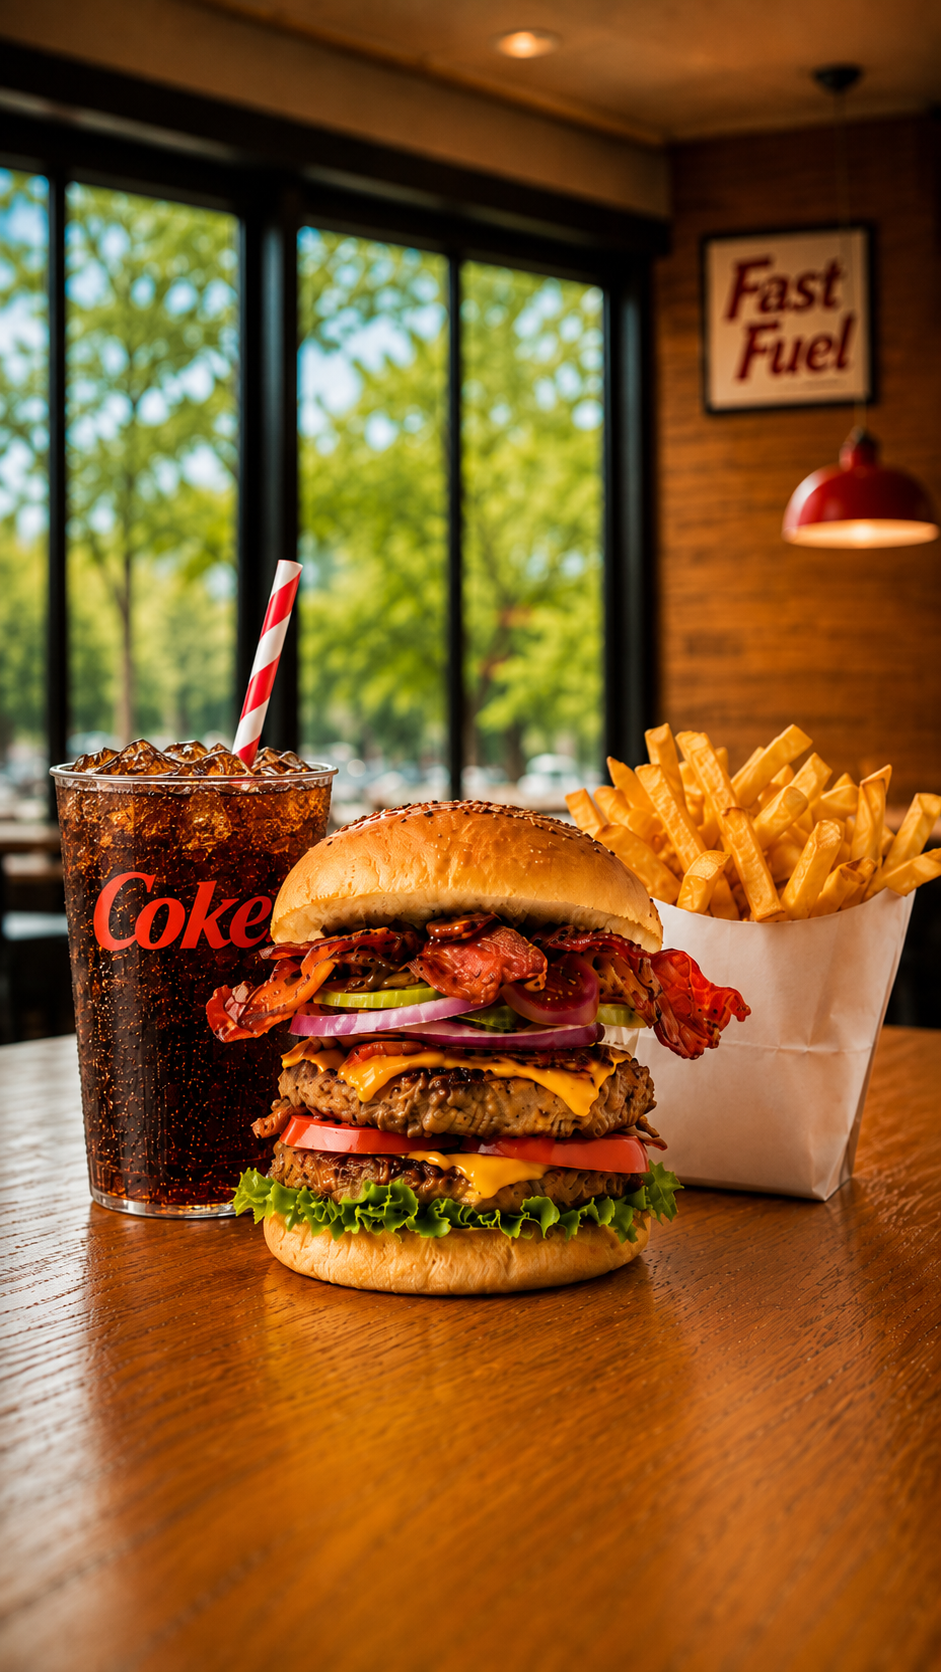
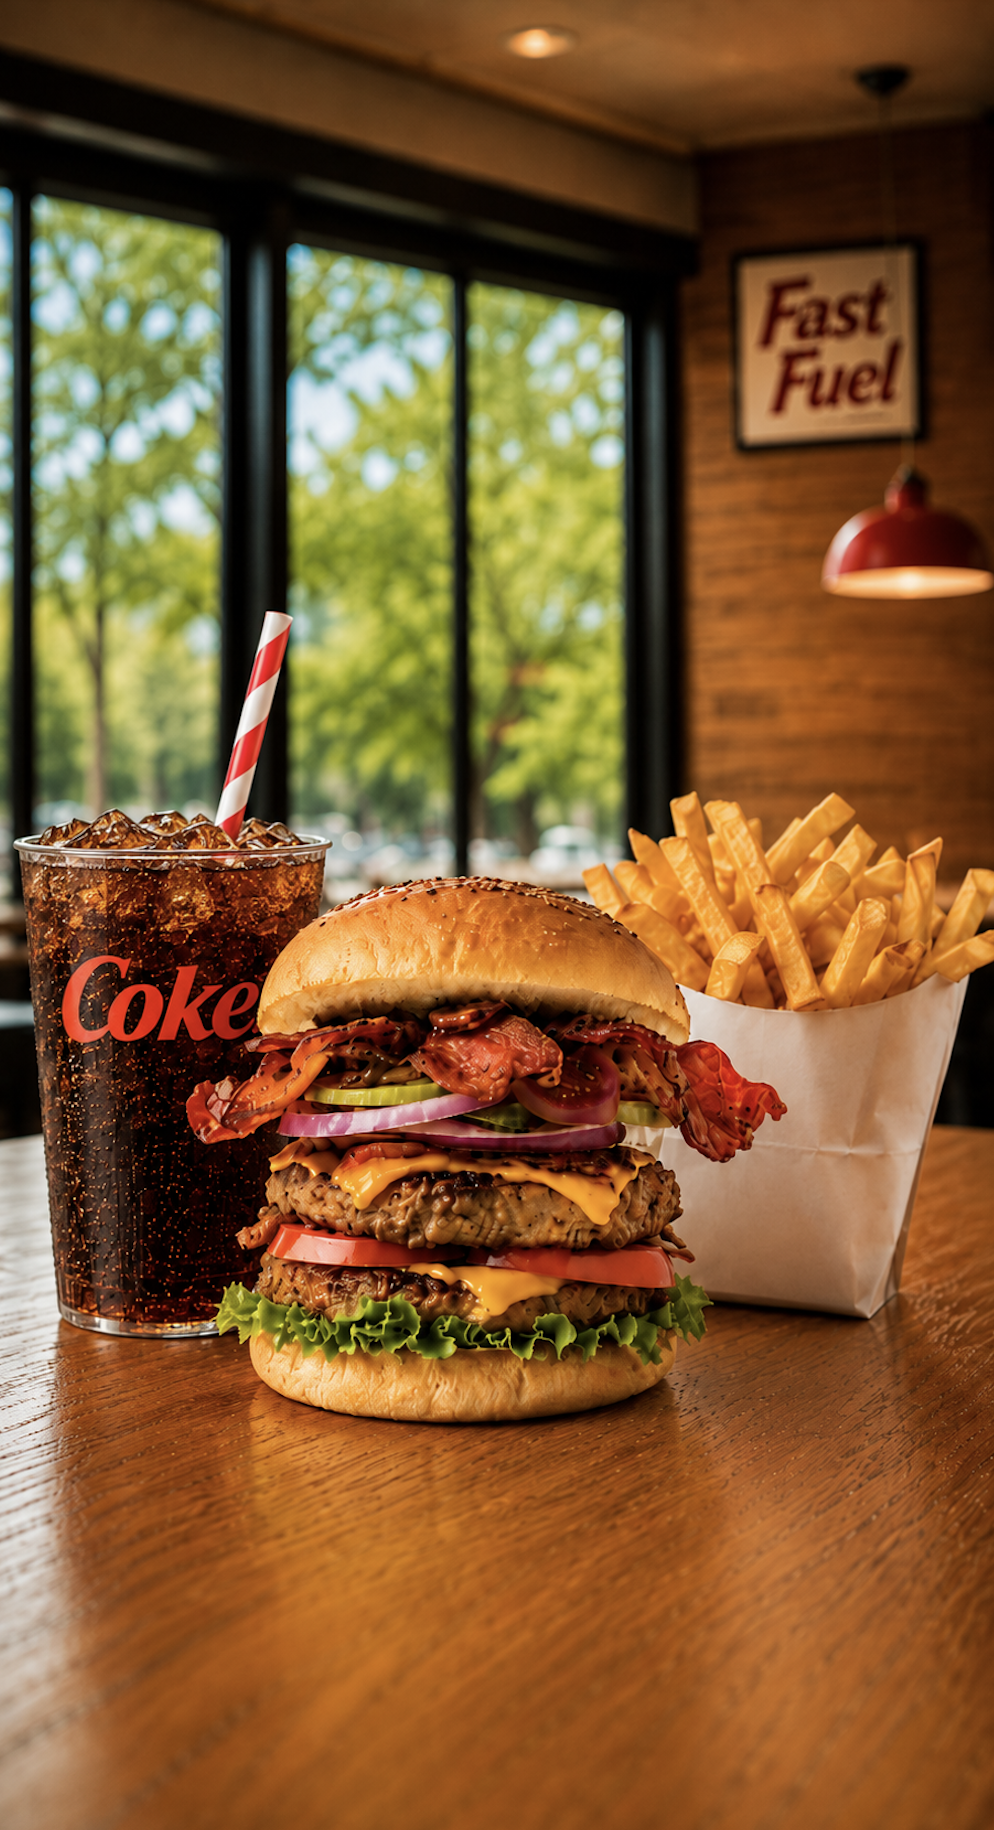
update combo pic

diff --git a/src/pages/Home.tsx b/src/pages/Home.tsx
@@ -49,8 +49,9 @@ const mobileSlides = [
         id: "combo",
         src: ComboMobile,
         alt: "Combo Promo",
-        position: "75% 66%",
+        position: "center 60%",
     },
+
     { id: "rest", src: RestImg, alt: "Rest" },
     { id: "girl", src: Chat6, alt: "Girl" },
     { id: "team", src: EmployeesMobile, alt: "Fast Fuel Team" },
